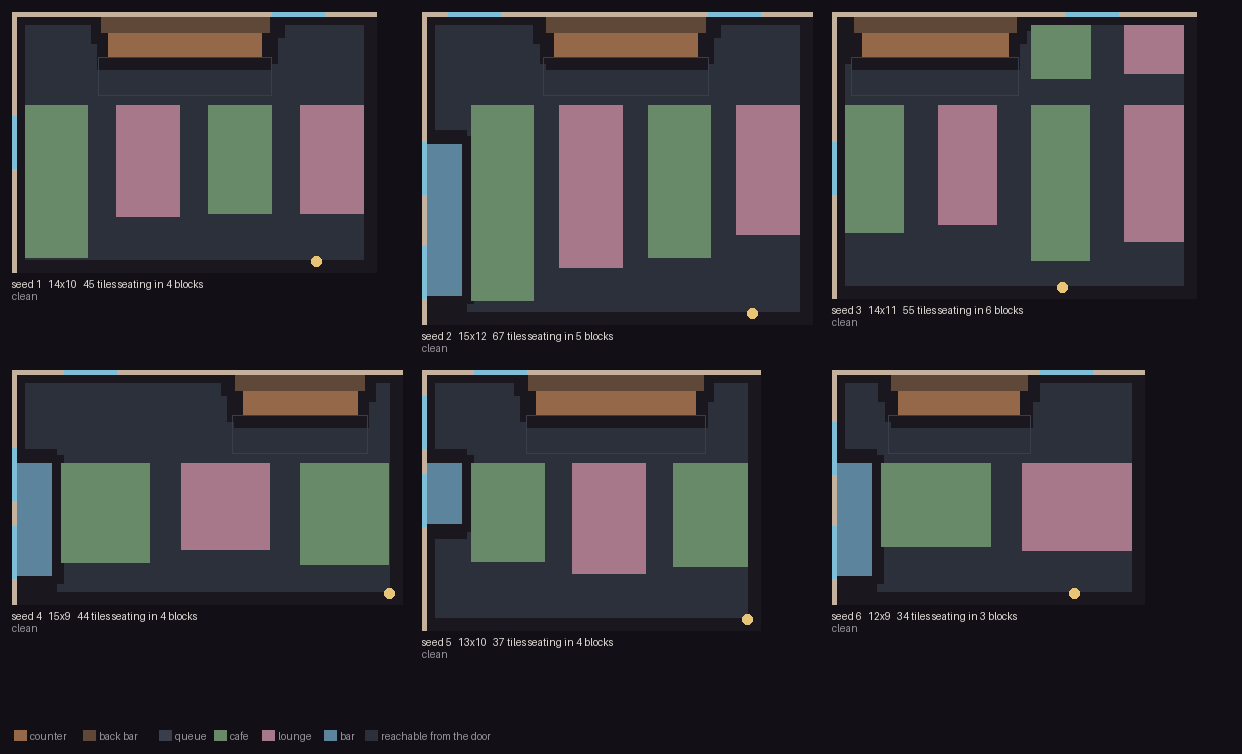
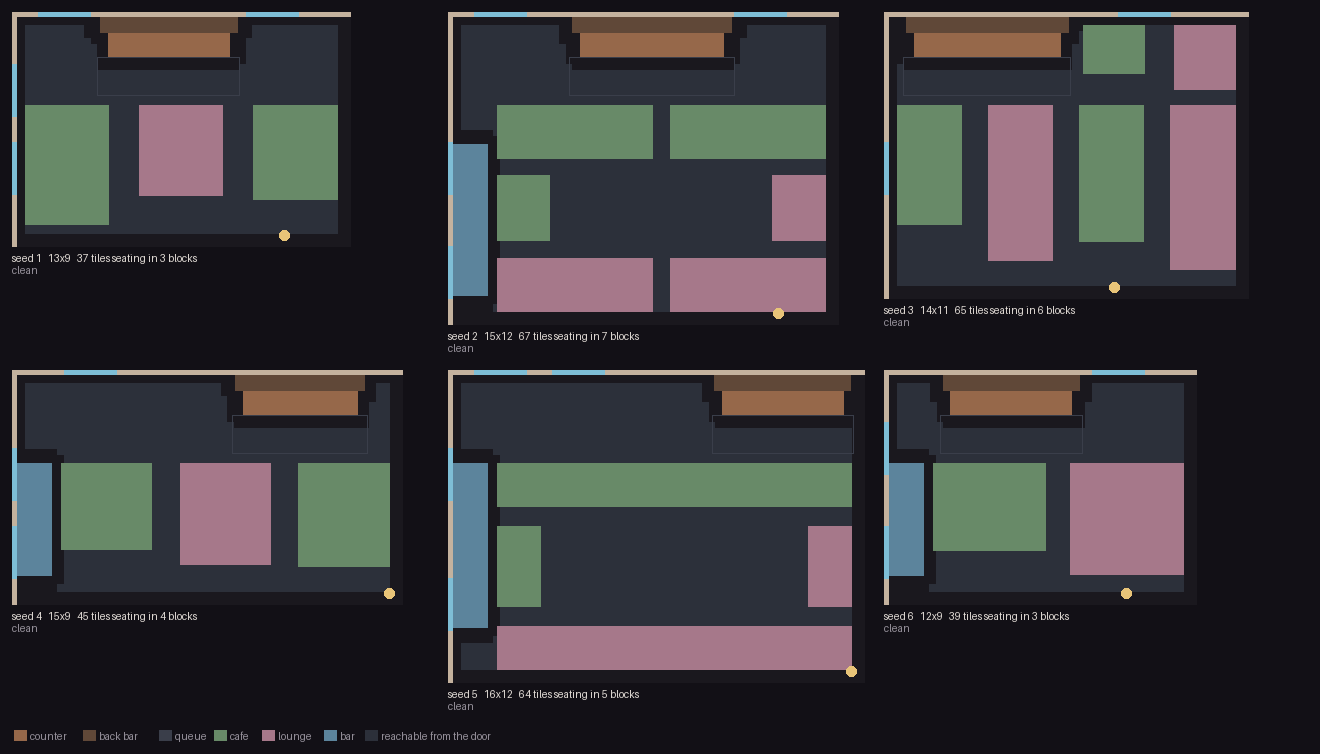
A second floor-plan topology
check_plan_range measured the generator at 43% mean layout distance and said
nothing, correctly -- 43% is a real spread. What a scalar cannot say is that
the whole spread sits inside one idea, and a sheet of six plans said it in a
second: a straight run against a far wall with the seating in strips, six
times. Same relationship the generator sheet has to check_generator_range. The
number says a generator moved; the sheet says whether it had anywhere
interesting to move to.

Perimeter seating hugs the walls and leaves the middle clear, which is a
different room rather than a reparameterised one -- the circulation runs
through the centre instead of down aisles. Mean layout distance 43% -> 50%,
40/40 plans still clean at 7ms each.

Claude-Session: https://claude.ai/code/session_01Q5KEMm7eqHrVgYtYGEkSmS

diff --git a/tools/floorplan.py b/tools/floorplan.py
@@ -465,15 +465,25 @@ def _lit_area(z: Zone, plan: Plan) -> float:
 def _seating_blocks(x0, y0, x1, y1, rnd) -> list:
     """Cut a seating floor into blocks under the cap, aisles between them.
 
-    Strips along the shorter axis, so the aisles run the long way -- which is
-    both how a room this shape is actually laid out and what keeps every block
-    touching the circulation the flood fill tests.
+    Two topologies, because one is not a range. `check_plan_range` measured the
+    strip-only generator at 43% mean layout distance and said nothing, which is
+    correct -- 43% is a real spread. What it cannot say is that the spread is
+    all *within* one idea, and a sheet of six plans made that obvious in a way
+    no scalar did. This is the same relationship the generator sheet has to
+    `check_generator_range`: the number says whether a generator moved, and the
+    contact sheet says whether it had anywhere interesting to move to.
 
-    Each block then loses a random bite off its far edge. Without that, a room
-    splits into three identical rectangles in a row, and a plan generator whose
-    output is a regular grid has replaced one hand-typed layout with one
-    procedural layout.
+    STRIPS run along the shorter axis, so the aisles run the long way. That is
+    how a room this shape is usually laid out and it keeps every block touching
+    the circulation the flood fill tests.
+
+    PERIMETER hugs the walls and leaves the middle clear, which is what a cafe
+    does when the floor is wide rather than long -- and it is a genuinely
+    different room, not a reparameterised one: the circulation runs through the
+    centre instead of down aisles between blocks.
     """
+    if (x1 - x0) > 5.5 and (y1 - y0) > 4.6 and rnd() < 0.42:
+        return _perimeter_blocks(x0, y0, x1, y1, rnd)
     out = []
     aisle = 0.9 + rnd() * 0.5
     horizontal = (x1 - x0) >= (y1 - y0)
@@ -495,6 +505,48 @@ def _seating_blocks(x0, y0, x1, y1, rnd) -> list:
             out.append(Zone(kind, a, y0, b, y0 + short_span * keep))
         else:
             out.append(Zone(kind, x0, a, x0 + short_span * keep, b))
+    return out
+
+
+def _perimeter_blocks(x0, y0, x1, y1, rnd) -> list:
+    """Seating against the edges of the floor, circulation through the middle.
+
+    The bands are deliberately shallow -- 1.5 to 2.1 tiles, a table and a chair
+    each side -- because a deep perimeter band is just a strip layout with a
+    hole in it, and the hole is the point.
+    """
+    out = []
+    depth = 1.5 + rnd() * 0.6
+    if (x1 - x0) - 2 * depth < 2.4 or (y1 - y0) - 2 * depth < 2.4:
+        return out
+    # Four bands, each cut short of the corners so the blocks do not overlap
+    # and so a person can turn each one.
+    gap = 0.5 + rnd() * 0.4
+    bands = [
+        ("cafe", x0, y0, x1, y0 + depth),
+        ("lounge", x0, y1 - depth, x1, y1),
+        ("cafe", x0, y0 + depth + gap, x0 + depth, y1 - depth - gap),
+        ("lounge", x1 - depth, y0 + depth + gap, x1, y1 - depth - gap),
+    ]
+    for kind, a, b, c, d in bands:
+        if c - a < 1.6 or d - b < 1.4:
+            continue
+        # Long bands get split, for the same reason a long strip does: the cap
+        # is about how much undivided seating reads as a canteen, and a band is
+        # no different from a block.
+        run = c - a if (c - a) >= (d - b) else d - b
+        n = max(1, int((c - a) * (d - b) / (MAX_SEAT_BLOCK * 0.7)) + 1)
+        n = min(n, max(1, int(run / 2.4)))
+        if (c - a) >= (d - b):
+            step = (c - a - gap * (n - 1)) / n
+            for i in range(n):
+                sx = a + i * (step + gap)
+                out.append(Zone(kind, sx, b, sx + step, d))
+        else:
+            step = (d - b - gap * (n - 1)) / n
+            for i in range(n):
+                sy = b + i * (step + gap)
+                out.append(Zone(kind, a, sy, c, sy + step))
     return out
 
 

diff --git a/ART_CRITIQUE.md b/ART_CRITIQUE.md
@@ -1588,10 +1588,28 @@ the table thickness varied underneath it, arrived at from a third direction.
 - Bar stools and benches are still never sat on, because perching needs a
   support model `grounded` does not have: a figure held up by its hips has no
   underside meeting anything.
-- The plan generator has one topology: a straight run against a far wall with
-  the seating in strips. An island counter, an L-shaped run, or a counter
-  facing the door are all cafes it cannot propose. The measured 43% mean layout
-  distance is range within one idea.
+### A number that says a generator moved, and a sheet that says where
+
+`check_plan_range` measured the plan generator at 43% mean layout distance and
+said nothing, which was correct — 43% is a real spread. What a scalar cannot
+say is that the whole spread sits *inside* one idea, and a contact sheet of six
+plans made that obvious in a second: a straight run against a far wall with the
+seating in strips, six times. This is the same relationship the generator sheet
+has to `check_generator_range`. The number says a generator moved; the sheet
+says whether it had anywhere interesting to move to.
+
+A second seating topology answers it. Perimeter blocks hug the walls and leave
+the middle clear, which is what a cafe does when the floor is wide rather than
+long — and it is a different room rather than a reparameterised one, because the
+circulation runs through the centre instead of down aisles between blocks. Mean
+layout distance goes to **50%**, and two plans in six now read as the other kind
+of cafe.
+
+- The plan generator still puts its counter in a straight run against a far
+  wall. An island, an L-shaped run and a counter that faces the door are all
+  cafes it cannot propose, and an island in particular would change the
+  circulation problem rather than the furniture arrangement — you can walk
+  round it, and the flood fill would have something to say about that.
 - Cast variety is now measured on shape as well as colour, and the generator
   solves for it. What is still unmeasured is whether an accessory or a hair
   style is *distinguishable* rather than merely present: the scarf went from
